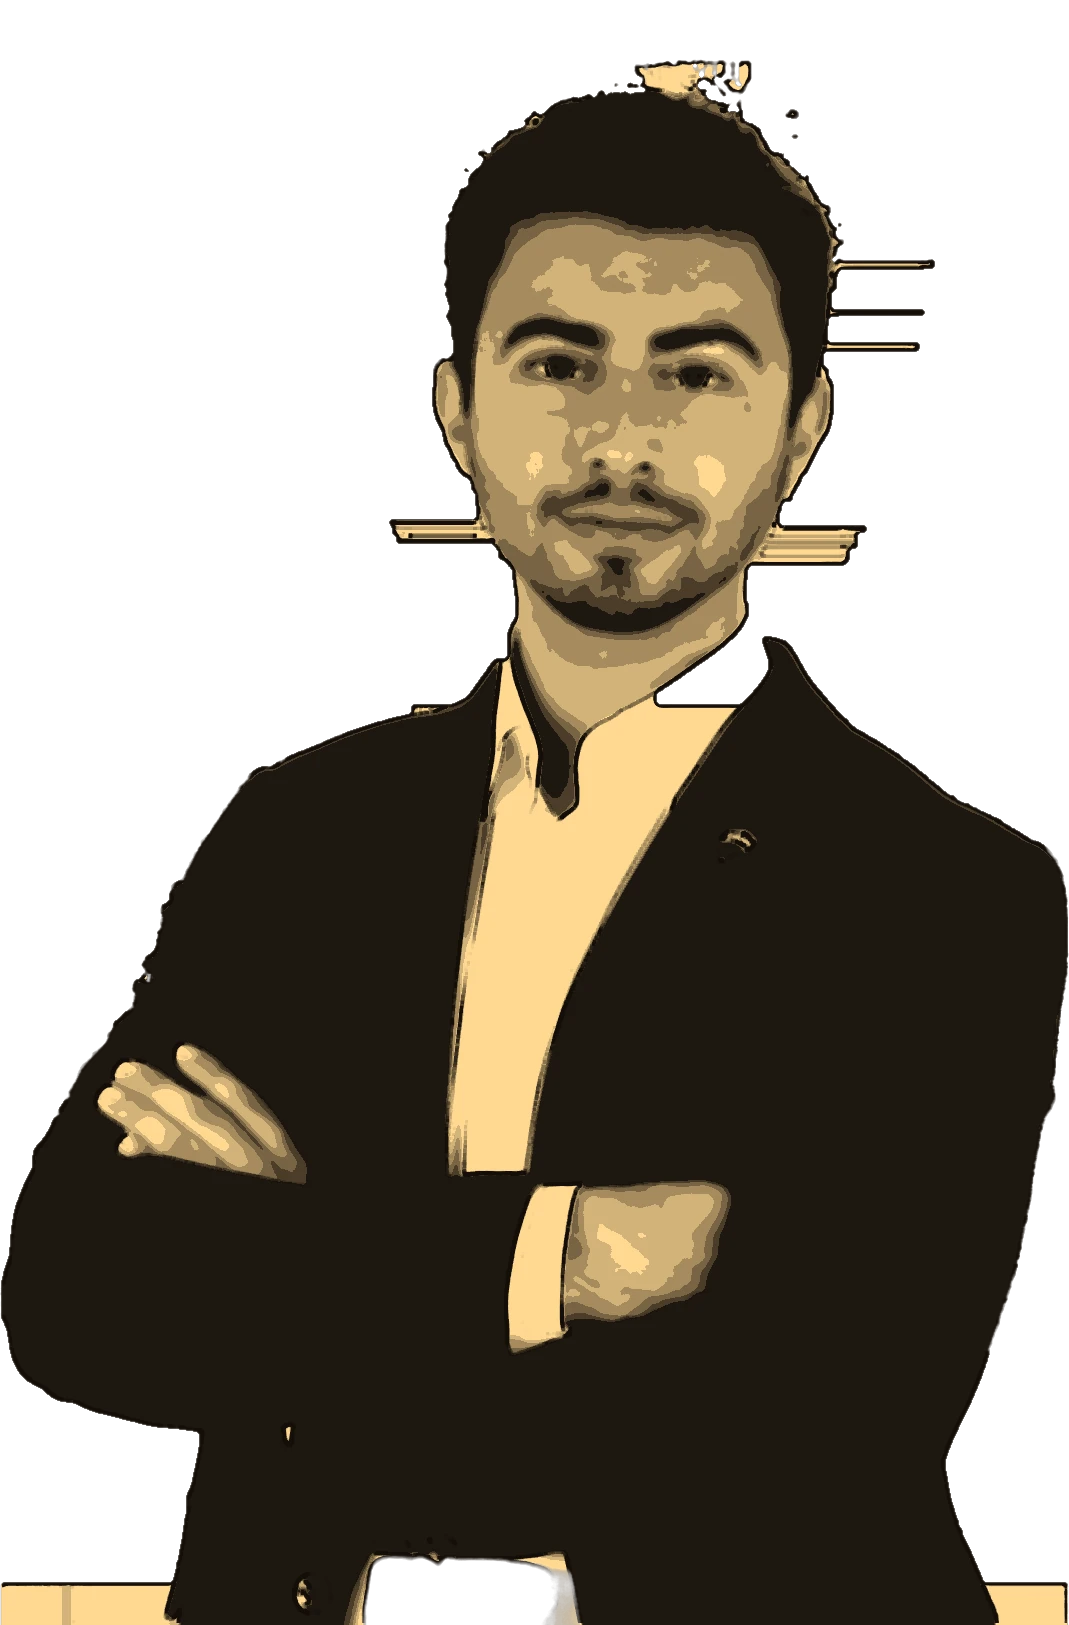
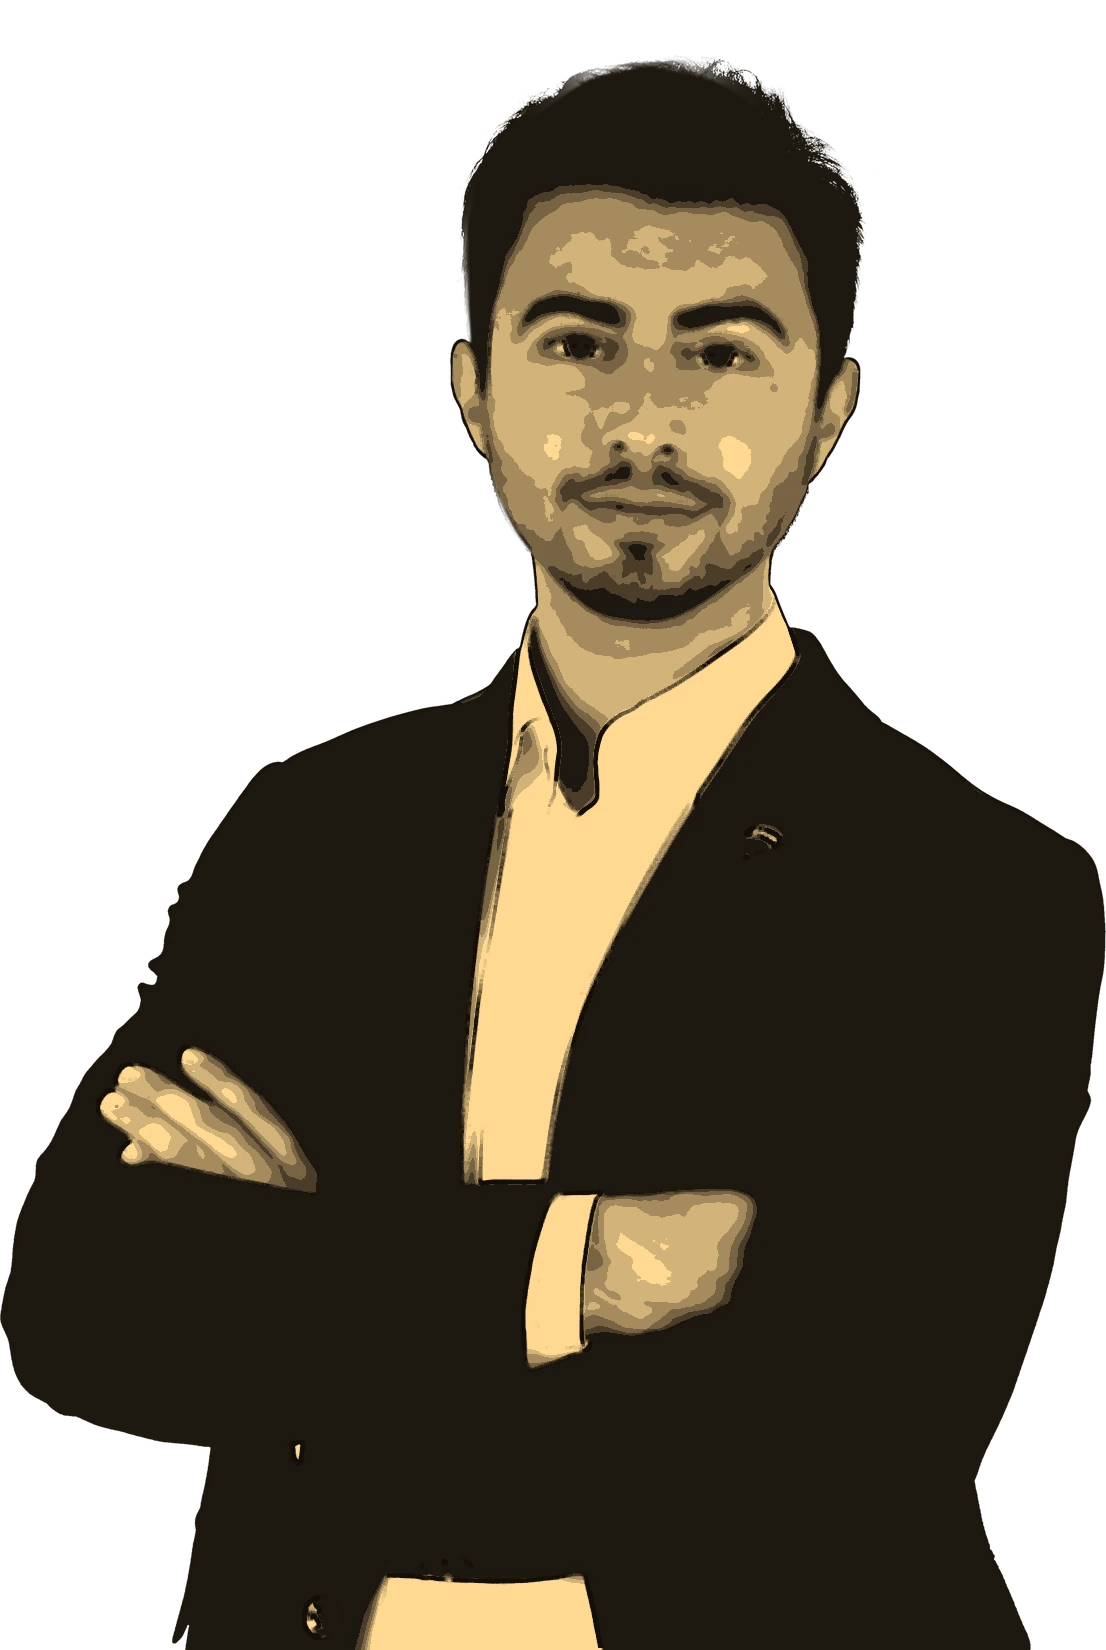
Portre gorsellerini yeni kaynaktan yenile
Yeni kaynak IMG_5236.png (3648x5472, alfa kanalli) kullanildi.
Onceki kaynak basarisiz bir arka plan silme cikitisiydi; sacta
magenta/yesil chroma artefaktlari ve arka planda gri-mor blok
lekeleri vardi. Yeni kesim temiz.

- portre.webp        1106x1650 (onceki 1069x1625)
- portre-cizim.webp  ayni canvas, ayni alfa (piksel piksel hizali)
- index.html width/height nitelikleri guncellendi

diff --git a/retro/index.html b/retro/index.html
@@ -120,7 +120,7 @@
           <img class="portrait-base" id="portraitBase"
                src="assets/images/portre.webp"
                alt="Bekir Taş, gayrimenkul danışmanı"
-               width="1069" height="1625"
+               width="1106" height="1650"
                draggable="false" fetchpriority="high">
           <!-- Akışkanla maskelenen çizim versiyonu buraya çizilir -->
           <canvas class="illustration-canvas" id="illustrationCanvas"></canvas>
